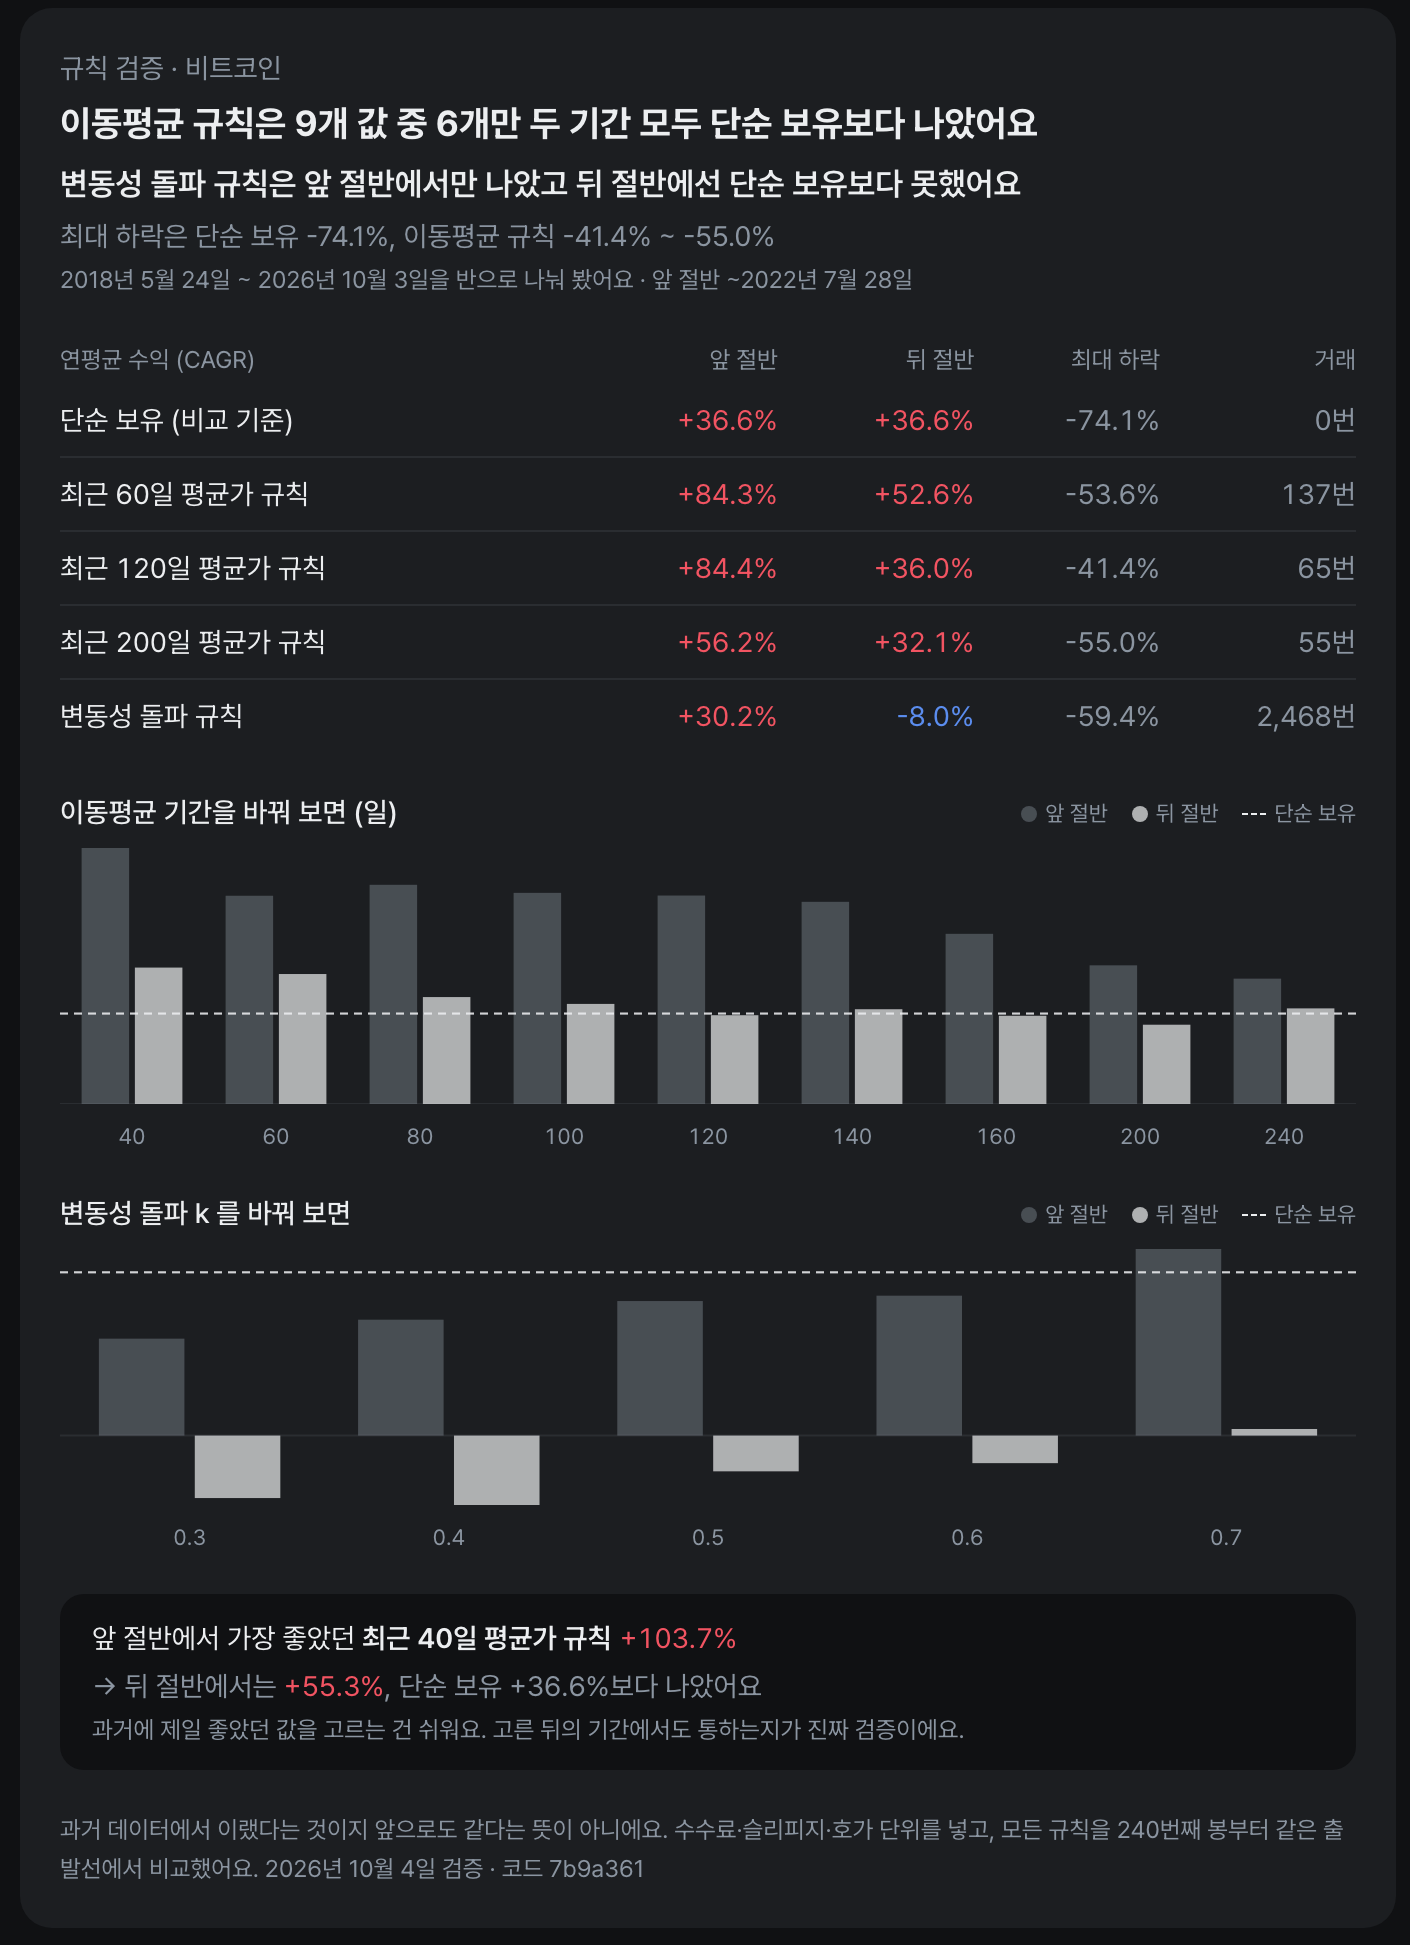
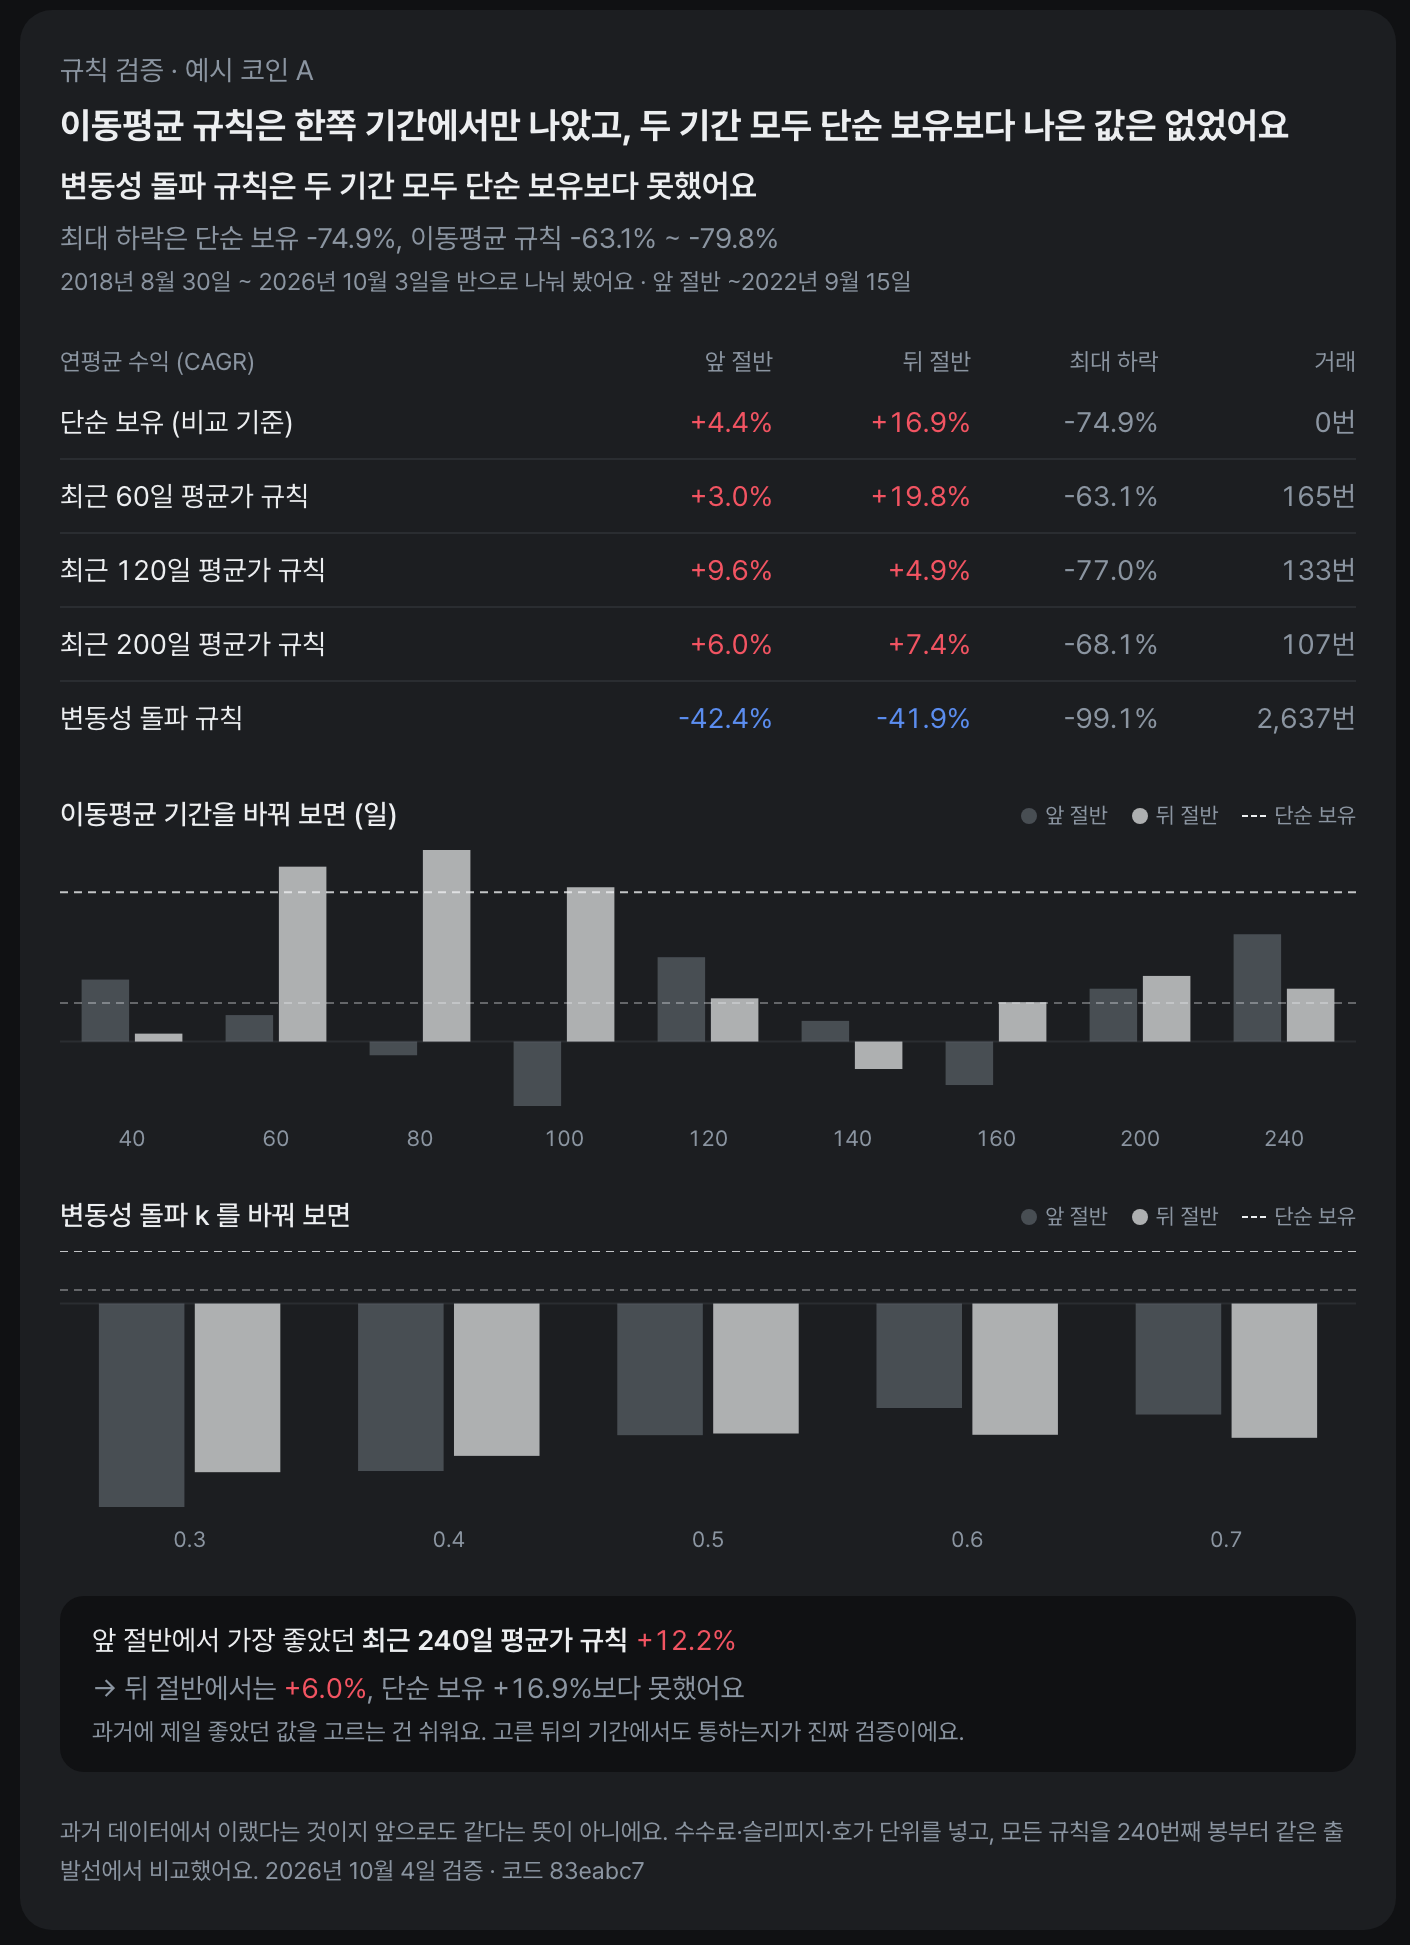
docs(repo): README 화면을 가상 데이터 캡처로, 업비트도 배포 금지 규칙에

diff --git a/README.md b/README.md
@@ -4,7 +4,9 @@
 
 비트코인·이더리움과 미국 주식·국내 상장 미국 ETF 를 같은 화면에서 보고, 각 규칙이 지금 무엇을 말하는지·과거에 어땠는지를 숫자로 확인한다.
 
-![비트코인 — 일봉 차트와 오늘의 규칙 신호](docs/assets/dashboard-btc.png)
+![대시보드 — 종목 타일, 일봉 차트, 오늘의 규칙 신호 (가상 데이터)](docs/assets/dashboard-btc.png)
+
+<sub>화면은 가상 데이터로 찍었다 — 실제 시세가 아니다</sub>
 
 > **투자 권유가 아니다.** 화면의 신호는 사용자가 고른 규칙이 말하는 상태일 뿐이고, 백테스트는 과거 데이터로 돌린 결과다. 코드는 있는 그대로 제공되며 사용에 따른 손실 책임은 사용자에게 있다.
 
@@ -20,9 +22,9 @@
 
 좋은 백테스트 결과가 특정 기간·특정 숫자 덕분인지 확인한다. 기간을 반으로 나누고, 이동평균 기간과 변동성 돌파 k 를 바꿔 가며 같은 조건으로 비교한다:
 
-<img src="docs/assets/rule-check.png" alt="비트코인 규칙 검증 — 기간 분리와 파라미터 민감도" width="560" />
+<img src="docs/assets/rule-check.png" alt="규칙 검증 — 기간 분리와 파라미터 민감도 (가상 데이터)" width="560" />
 
-> 화면 캡처와 문서의 결과 숫자는 업비트 코인만 싣는다. 미국주식·국내 ETF 는 토스증권 Open API 데이터라 제3자 배포가 금지돼 로컬 대시보드에서만 본다.
+> 업비트·토스증권 모두 API 로 받은 데이터의 배포를 금지한다 (업비트 Open API 이용약관 제5조, 토스증권 데이터 이용 정책). 그래서 README 화면은 가상 데이터로 찍고, 문서에도 실제 시세로 계산한 결과 숫자를 싣지 않는다. 실제 값은 로컬 대시보드에서만 본다.
 
 | 자산 | 종목 | 시세 |
 |---|---|---|

diff --git a/web/CLAUDE.md b/web/CLAUDE.md
@@ -6,6 +6,7 @@
 - 타입 검사: `pnpm typecheck` (`next typegen` 후 `tsc` — `PageProps`·`RouteContext` 같은 전역 타입이 생성돼야 함)
 - 포맷 도구 설정이 없음 — prettier 등을 돌리지 않음 (손댄 줄 밖까지 줄바꿈이 바뀜)
 - 엔진 API 는 루프백 전용 — 브라우저는 Next 라우트(`src/app/api/`)를 거쳐 받음
+- README 캡처는 **가상 데이터로만** — 거래소 약관상 실제 시세를 공개할 수 없음. `uv run --project engine orbit demo-data` → `uv run --project engine orbit serve --demo --db data/demo.sqlite` + `NEXT_PUBLIC_ORBIT_DEMO=1 pnpm dev`, headless Chrome `--force-device-scale-factor=2`
 
 <!-- BEGIN:nextjs-agent-rules -->
 
